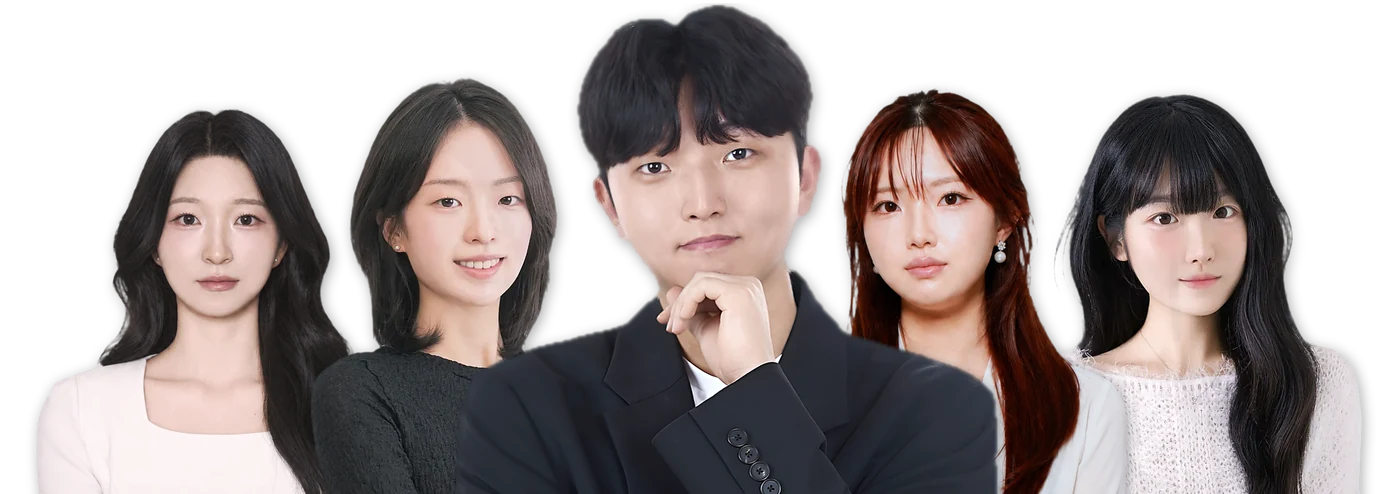
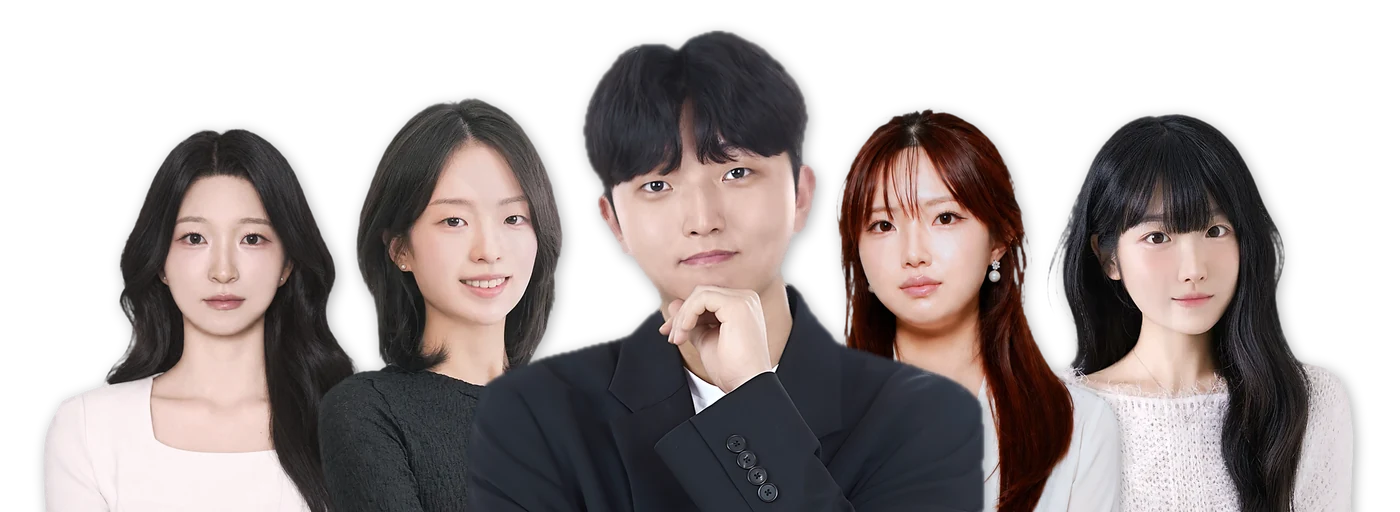
메인 목동관 사진 전체 4% 줄여 김포관과 크기 균형, 안호수 조금 작게 / 마우스 올릴 때 사진 위가 잘리던 문제 수정 / '대표원장' → '원장' 통일(메인 카드·올케어·강사 경력) [skip netlify]
Claude-Session: https://claude.ai/code/session_011njH4Ur6oq6sieSq6qMimB

diff --git a/index.html b/index.html
@@ -43,7 +43,7 @@ body{font-family:'Noto Sans KR',sans-serif;-webkit-font-smoothing:antialiased;wo
 .half .go{display:inline-flex;align-items:center;gap:6px;margin-top:18px;background:#fff;color:var(--c);font-weight:900;font-size:15px;padding:12px 22px;border-radius:99px;transition:background .3s,color .3s,padding .3s}
 .half .go em{font-style:normal;display:inline-block;transition:transform .3s}
 .half:hover .go{background:#E8601A;color:#fff;padding-right:28px}.half:hover .go em{transform:translateX(5px)}
-.half .team{position:relative;z-index:1;margin-top:28px;overflow:hidden}
+.half .team{position:relative;z-index:1;margin-top:28px}
 .half .team img{width:min(100%,560px);margin:0 auto;transform-origin:50% 100%;transition:transform .6s cubic-bezier(.2,.8,.2,1)}
 .half:hover .team img{transform:scale(1.05)}
 .slogan{background:#E8601A;color:#fff;text-align:center;font-size:clamp(28px,4.4vw,52px);font-weight:900;letter-spacing:-.04em;padding:26px 16px}
@@ -75,7 +75,7 @@ footer{margin-top:44px;background:#111;color:rgba(255,255,255,.55);padding:22px 
 <header class="brand"><div class="wrap"><div class="lg"><svg viewBox="0 0 2000 1765" aria-hidden="true"><circle cx="845" cy="187" r="187" fill="#EA5514"/><circle cx="1458" cy="187" r="187" fill="#fff"/><path d="M506 498H1120L989 820H801L466 1125H678L425 1765H0Z" fill="#EA5514"/><path d="M1120 498H2000L1870 820H1415L1039 1765H613L989 820Z" fill="#fff"/><path d="M1542 940L1870 1765H1445L1329 1465Z" fill="#fff"/></svg><div><h1>메이트<span>학원</span></h1><div class="eb">고등 내신·수능 단과 학원</div></div></div><div class="r">카카오톡 상담<br/><b><a href="http://pf.kakao.com/_AALWX/chat" target="_blank" rel="noopener">목동관</a> · <a href="http://pf.kakao.com/_xfAZaX/chat" target="_blank" rel="noopener">김포관</a></b></div></div></header>
 <main><div class="split"><a class="half mok" href="mokdong.html" style="--c:#125E32;--c2:#17703D"><div class="tx"><small>서울 양천구</small><b>목동관</b><i>에듀메이트학원</i><div class="inf">목동동로8길 17, 3층 · 02-6736-9505</div><span class="go">목동관 홈페이지 <em>→</em></span></div><div class="team"><img src="img/main/team-mokdong-1400.webp" srcset="img/main/team-mokdong-700.webp 700w, img/main/team-mokdong-1400.webp 1400w" sizes="(max-width:720px) 100vw, 560px" alt="목동관 선생님들"/></div></a><a class="half gim" href="gimpo.html" style="--c:#0C357F;--c2:#11449E"><div class="tx"><small>경기 김포시</small><b>김포관</b><i>너를위한메이트학원</i><div class="inf">사우중로 92, 3층 · 031-8049-0716</div><span class="go">김포관 홈페이지 <em>→</em></span></div><div class="team"><img src="img/main/team-gimpo-1400.webp" srcset="img/main/team-gimpo-700.webp 700w, img/main/team-gimpo-1400.webp 1400w" sizes="(max-width:720px) 100vw, 560px" alt="김포관 선생님들"/></div></a></div>
 <div class="slogan">너와 함께, 정상으로!</div>
-<div class="wrap more"><h3>당신을 위한 메이트교육</h3><div class="exs"><a class="ex lab" href="matelab.html" style="--c:#2E93A6"><span class="ex-ic"><svg viewBox="0 0 2000 1765" aria-hidden="true" fill="currentColor"><circle cx="845" cy="187" r="187"/><circle cx="1458" cy="187" r="187"/><path d="M506 498H1120L989 820H801L466 1125H678L425 1765H0Z"/><path d="M1120 498H2000L1870 820H1415L1039 1765H613L989 820Z"/><path d="M1542 940L1870 1765H1445L1329 1465Z"/></svg></span><b>메이트랩</b><em>자체 교재 · 학습 웹</em><p>국어·영어·인문논술 자체 교재와 어휘 학습 웹</p><span class="ex-go">보러 가기 →</span><span class="ex-who"><img src="img/main/kim-sojin-card.webp" alt=""/><i>부원장 김소진</i></span></a><a class="ex care" href="allcare.html" style="--c:#E2A03F"><span class="ex-ic"><svg viewBox="0 0 120 120" aria-hidden="true"><path d="M24 92 V24 L60 60 L96 24 V92" fill="none" stroke="currentColor" stroke-width="20" stroke-linejoin="round"/><path d="M60 60 V92" fill="none" stroke="currentColor" stroke-width="20"/><rect x="14" y="100" width="92" height="10" rx="3" fill="#E2A03F"/></svg></span><b>메이트 올케어</b><em>국·수·영 수강생 학습 관리</em><p>담임 컨설턴트의 주간 학습 관리와 입시 컨설팅</p><span class="ex-go">보러 가기 →</span><span class="ex-who"><img src="img/main/kim-dongwan-card.webp" alt=""/><i>대표원장 김동완</i></span></a><a class="ex yt" href="https://www.youtube.com/@onmate-study" target="_blank" rel="noopener" style="--c:#E8601A"><span class="ex-ic"><svg viewBox="0 0 52 52" aria-hidden="true"><rect x="2" y="8" width="48" height="36" rx="10" fill="none" stroke="currentColor" stroke-width="4"/><path d="M22 18 L35 26 L22 34 Z" fill="currentColor"/></svg></span><b>YouTube 채널</b><em>해설강의 영상</em><p>메이트 선생님들의 해설강의를 영상으로</p><span class="ex-go">채널 열기 ↗</span></a></div></div></main>
+<div class="wrap more"><h3>당신을 위한 메이트교육</h3><div class="exs"><a class="ex lab" href="matelab.html" style="--c:#2E93A6"><span class="ex-ic"><svg viewBox="0 0 2000 1765" aria-hidden="true" fill="currentColor"><circle cx="845" cy="187" r="187"/><circle cx="1458" cy="187" r="187"/><path d="M506 498H1120L989 820H801L466 1125H678L425 1765H0Z"/><path d="M1120 498H2000L1870 820H1415L1039 1765H613L989 820Z"/><path d="M1542 940L1870 1765H1445L1329 1465Z"/></svg></span><b>메이트랩</b><em>자체 교재 · 학습 웹</em><p>국어·영어·인문논술 자체 교재와 어휘 학습 웹</p><span class="ex-go">보러 가기 →</span><span class="ex-who"><img src="img/main/kim-sojin-card.webp" alt=""/><i>부원장 김소진</i></span></a><a class="ex care" href="allcare.html" style="--c:#E2A03F"><span class="ex-ic"><svg viewBox="0 0 120 120" aria-hidden="true"><path d="M24 92 V24 L60 60 L96 24 V92" fill="none" stroke="currentColor" stroke-width="20" stroke-linejoin="round"/><path d="M60 60 V92" fill="none" stroke="currentColor" stroke-width="20"/><rect x="14" y="100" width="92" height="10" rx="3" fill="#E2A03F"/></svg></span><b>메이트 올케어</b><em>국·수·영 수강생 학습 관리</em><p>담임 컨설턴트의 주간 학습 관리와 입시 컨설팅</p><span class="ex-go">보러 가기 →</span><span class="ex-who"><img src="img/main/kim-dongwan-card.webp" alt=""/><i>원장 김동완</i></span></a><a class="ex yt" href="https://www.youtube.com/@onmate-study" target="_blank" rel="noopener" style="--c:#E8601A"><span class="ex-ic"><svg viewBox="0 0 52 52" aria-hidden="true"><rect x="2" y="8" width="48" height="36" rx="10" fill="none" stroke="currentColor" stroke-width="4"/><path d="M22 18 L35 26 L22 34 Z" fill="currentColor"/></svg></span><b>YouTube 채널</b><em>해설강의 영상</em><p>메이트 선생님들의 해설강의를 영상으로</p><span class="ex-go">채널 열기 ↗</span></a></div></div></main>
 <footer><div class="wrap"><span>Since 2024 · © 메이트학원</span><span>카카오톡 상담 <a href="http://pf.kakao.com/_AALWX/chat" target="_blank" rel="noopener">목동관</a> · <a href="http://pf.kakao.com/_xfAZaX/chat" target="_blank" rel="noopener">김포관</a></span></div></footer>
 </body>
 </html>

diff --git a/data/mokdong.js b/data/mokdong.js
@@ -37,7 +37,7 @@ const TEACHERS=[
   {name:'김동완',filters:['국어','면접·컨설팅'],role:null,
    subjects:['국어','면접·컨설팅'],
    msg:'너의 마지막 입시 메이트',tags:['원장','연세대 국어국문학','국어학 석사과정'],
-   career:['메이트학원 대표원장','연세대학교 국어국문학과 · 정치외교학과','연세대학교 일반대학원 국어학 석사과정','정교사 2급 교원자격증 취득','중앙대학교 · 연세대학교 인문논술 합격','2026년 이투스북 연간검토단','김포 당신을위한유어랩학원 국어 담당'],
+   career:['메이트학원 원장','연세대학교 국어국문학과 · 정치외교학과','연세대학교 일반대학원 국어학 석사과정','정교사 2급 교원자격증 취득','중앙대학교 · 연세대학교 인문논술 합격','2026년 이투스북 연간검토단','김포 당신을위한유어랩학원 국어 담당'],
    subjects_teach:['국어(고3·N수)','면접·컨설팅'],target:'고3 / N수',blogLinks:[{title:'김동완T 강사 소개',url:'https://blog.naver.com/edumate_mokdong/223439213179'},{title:'생기부 기반 면접 대비반 진행 방식',url:'https://blog.naver.com/yourmate_gimpo/224448440567'},{title:'[후기] 국어 김동완T 수강후기',url:'https://blog.naver.com/edumate_mokdong/224207132313'},{title:'[합격수기] 한양대 음대 합격생 합격수기',url:'https://blog.naver.com/edumate_mokdong/224182881117'}]},
   {name:'안호수',filters:['수학','논술'],role:null,subjects:['수학','논술'],
    msg:'내 사전에 수포자는 없다',tags:['과외어플 전국 상위 2%','유어랩학원','수학 전임'],
@@ -75,7 +75,7 @@ const TEACHERS=[
   {name:'남매논술팀',team:true,filters:['논술'],role:null,subjects:['논술'],
    msg:'네 번의 합격이 말해주는 인문논술의 정답',tags:['김동완 · 김소진','연세대 국어국문학'],
    career:[],careerGroups:[
-    {name:'김동완',items:['메이트학원 대표원장','연세대학교 국어국문학과 · 정치외교학과','연세대학교 일반대학원 국어학 석사과정','중앙대학교 · 연세대학교 인문논술 합격']},
+    {name:'김동완',items:['메이트학원 원장','연세대학교 국어국문학과 · 정치외교학과','연세대학교 일반대학원 국어학 석사과정','중앙대학교 · 연세대학교 인문논술 합격']},
     {name:'김소진',items:['메이트학원 부원장','연세대학교 국어국문학과','이화여자대학교 인문논술 합격','연세대학교 편입논술 합격']}],
    subjects_teach:['인문논술','약술논술'],target:'고3 / N수',blogLinks:[{title:'인문논술 수업 방식',url:'https://blog.naver.com/edumate_mokdong/224350956422'},{title:'[후기] 약술 논술 수강후기',url:'https://blog.naver.com/edumate_mokdong/224184462106'}]}
 ];

diff --git a/data/gimpo.js b/data/gimpo.js
@@ -34,7 +34,7 @@ const TEACHERS=[
   {name:'김동완',filters:['국어','면접·컨설팅'],role:null,
    subjects:['국어','면접·컨설팅'],
    msg:'너의 마지막 입시 메이트',tags:['원장','연세대 국어국문학','국어학 석사과정'],
-   career:['메이트학원 대표원장','연세대학교 국어국문학과 · 정치외교학과','연세대학교 일반대학원 국어학 석사과정','정교사 2급 교원자격증 취득','중앙대학교 · 연세대학교 인문논술 합격','2026년 이투스북 연간검토단','김포 당신을위한유어랩학원 국어 담당'],
+   career:['메이트학원 원장','연세대학교 국어국문학과 · 정치외교학과','연세대학교 일반대학원 국어학 석사과정','정교사 2급 교원자격증 취득','중앙대학교 · 연세대학교 인문논술 합격','2026년 이투스북 연간검토단','김포 당신을위한유어랩학원 국어 담당'],
    subjects_teach:['국어(고3·N수)','면접·컨설팅'],target:'고3 / N수',blogLinks:[{title:'김동완T 강사 소개',url:'https://blog.naver.com/edumate_mokdong/223439213179'},{title:'생기부 기반 면접 대비반 진행 방식',url:'https://blog.naver.com/yourmate_gimpo/224448440567'},{title:'[후기] 국어 김동완T 수강후기',url:'https://blog.naver.com/edumate_mokdong/224207132313'},{title:'[합격수기] 한양대 음대 합격생 합격수기',url:'https://blog.naver.com/edumate_mokdong/224182881117'}]},
   {name:'권세은',filters:['영어'],role:null,subjects:['영어'],
    msg:'감이 아니라 구조로 보는 영어',tags:['영어 전임','과외어플 전국 상위 0.2%'],
@@ -65,7 +65,7 @@ const TEACHERS=[
   {name:'남매논술팀',team:true,filters:['논술'],role:null,subjects:['논술'],
    msg:'네 번의 합격이 말해주는 인문논술의 정답',tags:['김동완 · 김소진','연세대 국어국문학'],
    career:[],careerGroups:[
-    {name:'김동완',items:['메이트학원 대표원장','연세대학교 국어국문학과 · 정치외교학과','연세대학교 일반대학원 국어학 석사과정','중앙대학교 · 연세대학교 인문논술 합격']},
+    {name:'김동완',items:['메이트학원 원장','연세대학교 국어국문학과 · 정치외교학과','연세대학교 일반대학원 국어학 석사과정','중앙대학교 · 연세대학교 인문논술 합격']},
     {name:'김소진',items:['메이트학원 부원장','연세대학교 국어국문학과','이화여자대학교 인문논술 합격','연세대학교 편입논술 합격']}],
    subjects_teach:['인문논술','약술논술'],target:'고3 / N수',blogLinks:[{title:'인문논술 수업 방식',url:'https://blog.naver.com/edumate_mokdong/224350956422'},{title:'[후기] 약술 논술 수강후기',url:'https://blog.naver.com/edumate_mokdong/224184462106'}]}
 ];

diff --git a/allcare.html b/allcare.html
@@ -345,9 +345,9 @@ section[id]{scroll-margin-top:70px}
   <figure class="hero-person">
     <div class="hp-box">
       <svg class="hp-m" viewBox="0 0 120 120" aria-hidden="true"><path d="M24 92 V24 L60 60 L96 24 V92" fill="none" stroke="#F3F1EB" stroke-width="20" stroke-linejoin="round"/><path d="M60 60 V92" fill="none" stroke="#F3F1EB" stroke-width="20"/><rect x="14" y="100" width="92" height="10" rx="3" fill="#E2A03F"/></svg>
-      <img src="img/allcare/kim-dongwan.webp" alt="대표원장 김동완"/>
+      <img src="img/allcare/kim-dongwan.webp" alt="원장 김동완"/>
     </div>
-    <figcaption class="hp-cap">대표원장 김동완</figcaption>
+    <figcaption class="hp-cap">원장 김동완</figcaption>
   </figure>
 </div></div></section>
 
